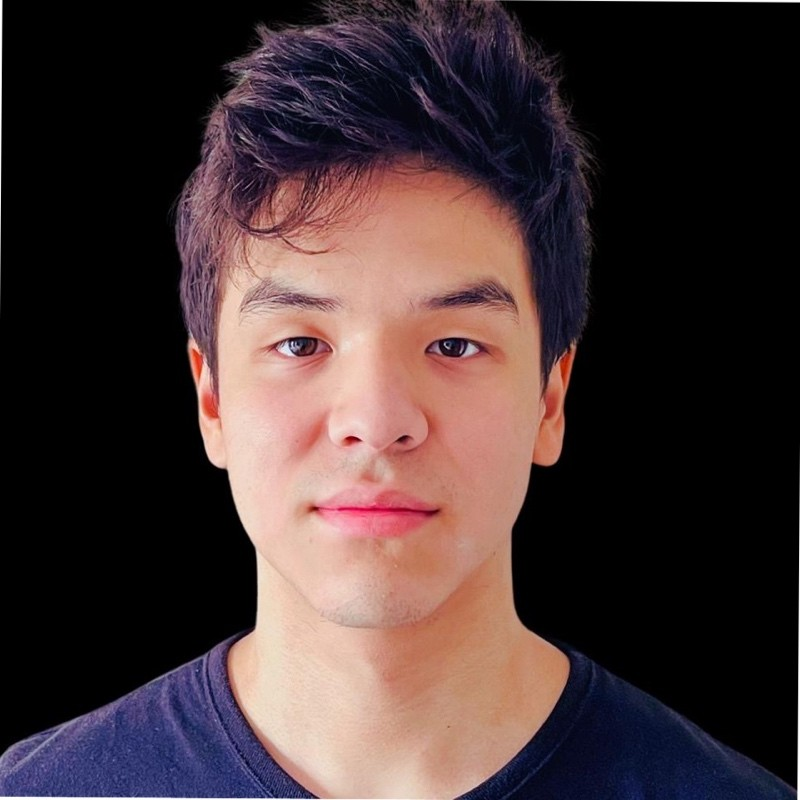
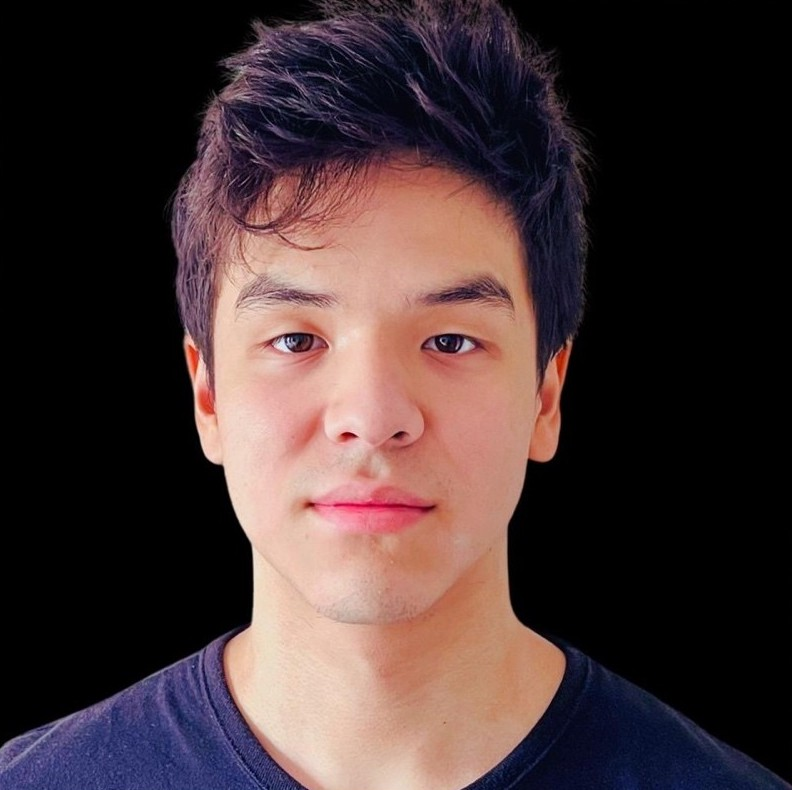
Correção de imagem e adição de estilo

diff --git a/index.html b/index.html
@@ -4,6 +4,7 @@
     <meta charset="UTF-8">
     <meta name="viewport" content="width=device-width, initial-scale=1.0">
     <title>Portfolio</title>
+    <link rel="stylesheet" href="style.css"
 </head>
 <body>
     <header></header>

diff --git a/style.css b/style.css
@@ -1,0 +1,4 @@
+body {
+    background-color: black;
+    color: white;
+}
